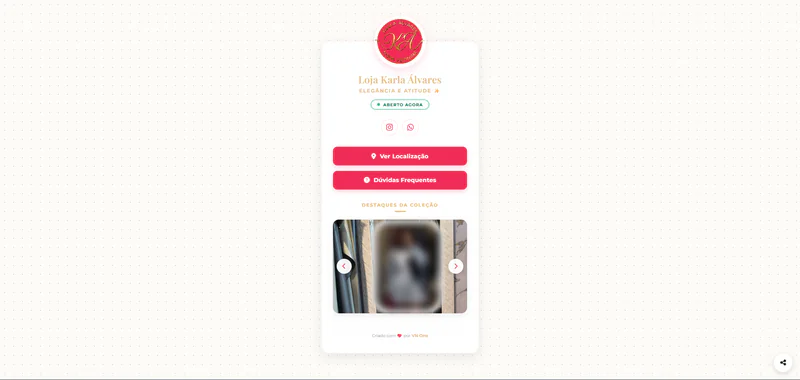
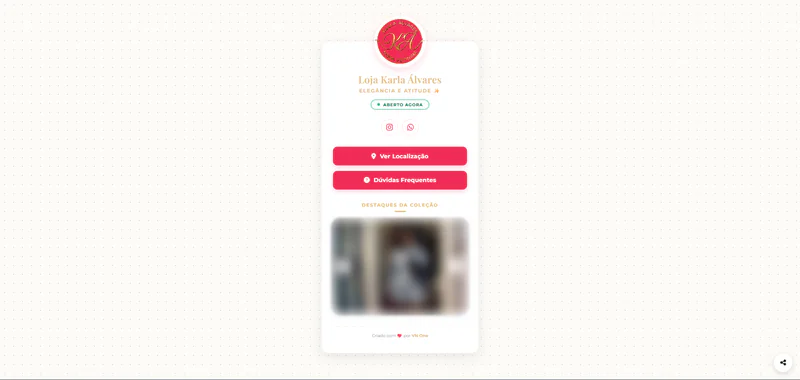
fix: case pages are never clipped (stacked below lg, min-w-0, smaller padding), wider text column at 280, Karla carousel fully and softly blurred

Changed region(s): [[0.4062, 0.55, 0.5938, 0.8395]]

diff --git a/src/components/ProjectDetail.tsx b/src/components/ProjectDetail.tsx
@@ -8,7 +8,10 @@ interface ProjectDetailProps {
   project: Project;
 }
 
-const LABEL_CLASSES = 'mb-3 text-xs font-bold uppercase tracking-widest text-zinc-400 max-md:pr-14';
+// The floating WhatsApp and accessibility buttons sit at the right edge of a phone: the text stays clear of them
+// (36 px under 360 px so the column stays wide enough, 56 px up to the tablet layout, none from md up).
+export const CLEAR_FLOATING_BUTTONS = 'pr-9 min-[360px]:pr-14 md:pr-0';
+const LABEL_CLASSES = `mb-3 text-xs font-bold uppercase tracking-widest text-zinc-400 ${CLEAR_FLOATING_BUTTONS}`;
 
 function Features({ items }: { items: readonly string[] }) {
   return (
@@ -16,7 +19,7 @@ function Features({ items }: { items: readonly string[] }) {
       <h2 id="projeto-faz" className={LABEL_CLASSES}>
         {FEATURES_LABEL}
       </h2>
-      <ul role="list" className="m-0 list-none space-y-3 p-0 max-md:pr-14">
+      <ul role="list" className={`m-0 list-none space-y-3 p-0 ${CLEAR_FLOATING_BUTTONS}`}>
         {items.map((item) => (
           <li key={item} className="flex gap-3 leading-relaxed text-zinc-300 md:text-base">
             <span aria-hidden="true" className="mt-2.5 size-1.5 shrink-0 rounded-full bg-white/40" />
@@ -34,7 +37,7 @@ function Tags({ tags }: { tags: readonly string[] }) {
       <h2 id="projeto-tecnologias" className={LABEL_CLASSES}>
         {TAGS_LABEL}
       </h2>
-      <ul role="list" className="m-0 flex list-none flex-wrap gap-2 p-0 max-md:pr-14">
+      <ul role="list" className={`m-0 flex list-none flex-wrap gap-2 p-0 ${CLEAR_FLOATING_BUTTONS}`}>
         {tags.map((tag) => (
           <li key={tag} className="rounded-full border border-white/10 bg-white/5 px-3 py-2 text-xs font-medium text-zinc-300 md:px-4">
             {tag}
@@ -46,10 +49,10 @@ function Tags({ tags }: { tags: readonly string[] }) {
 }
 
 function Heading({ project, large }: { project: Project; large: boolean }) {
-  const size = large ? 'text-4xl md:text-6xl' : 'text-2xl md:text-5xl';
+  const size = large ? 'text-4xl md:text-6xl' : 'text-2xl md:text-4xl lg:text-5xl';
 
   return (
-    <div className="max-md:pr-14">
+    <div className={`min-w-0 break-words ${CLEAR_FLOATING_BUTTONS}`}>
       <p className="mb-2 text-xs font-bold uppercase tracking-[0.25em] text-zinc-400">{project.category}</p>
       <h1 className={`${size} mb-4 font-display font-bold italic tracking-tight text-white md:mb-6`}>
         <ProjectTitle title={project.title} />
@@ -65,8 +68,8 @@ function Heading({ project, large }: { project: Project; large: boolean }) {
    Os projetos em destaque (DizPara, Hub081) ganham a galeria grande no topo e a lista do que fazem. */
 export default function ProjectDetail({ project }: ProjectDetailProps) {
   const isFeatured = Boolean(project.featured);
-  const layout = isFeatured ? 'flex-col' : 'flex-col md:flex-row';
-  const textLayout = isFeatured ? 'grid gap-10 lg:grid-cols-2 lg:gap-16' : 'flex flex-col md:sticky md:top-28 md:self-start';
+  const layout = isFeatured ? 'flex-col' : 'flex-col lg:flex-row';
+  const textLayout = isFeatured ? 'grid min-w-0 gap-10 lg:grid-cols-2 lg:gap-16' : 'flex min-w-0 flex-col lg:sticky lg:top-28 lg:self-start';
 
   return (
     <motion.div
@@ -77,7 +80,7 @@ export default function ProjectDetail({ project }: ProjectDetailProps) {
     >
       {isFeatured ? <HeroGallery project={project} /> : <StackedGallery project={project} />}
 
-      <div className="flex-1 bg-zinc-950 p-6 pb-10 md:bg-zinc-900 md:p-16">
+      <div className="min-w-0 flex-1 bg-zinc-950 p-4 pb-8 min-[360px]:p-6 min-[360px]:pb-10 md:bg-zinc-900 md:p-10 xl:p-16">
         <div className={textLayout}>
           <Heading project={project} large={isFeatured} />
           <div className={`space-y-6 md:space-y-8 ${isFeatured ? '' : 'mt-8'}`}>

diff --git a/src/components/ProjectDetail.layout.test.tsx b/src/components/ProjectDetail.layout.test.tsx
@@ -1,0 +1,51 @@
+import { screen } from '@testing-library/react';
+import { describe, expect, it } from 'vitest';
+import { getProjectBySlug, projects } from '../data/projects';
+import { renderWithProviders } from '../test/render';
+import ProjectDetail, { CLEAR_FLOATING_BUTTONS } from './ProjectDetail';
+
+function panelOf(container: HTMLElement): HTMLElement {
+  return container.querySelector('[class*="overflow-clip"]') as HTMLElement;
+}
+
+describe('the layout classes that keep a case page from being cut', () => {
+  it.each(projects.map((project) => project.slug))('lets the text column of %s shrink: min-w-0 on it and on its content', (slug) => {
+    const { container } = renderWithProviders(<ProjectDetail project={getProjectBySlug(slug)!} />);
+
+    const column = screen.getByRole('heading', { level: 1 }).closest('[class*="flex-1"]') as HTMLElement;
+
+    expect(column.className).toContain('min-w-0');
+    expect(column.firstElementChild?.className).toContain('min-w-0');
+    expect(panelOf(container)).toBeTruthy();
+  });
+
+  it('stacks the gallery above the text below lg, and puts them side by side only from lg', () => {
+    const { container } = renderWithProviders(<ProjectDetail project={getProjectBySlug('portal-link-in-bio')!} />);
+
+    const panel = panelOf(container);
+
+    expect(panel.className).toContain('flex-col');
+    expect(panel.className).toContain('lg:flex-row');
+    expect(panel.className).not.toContain('md:flex-row');
+    expect(screen.getByRole('group').className).toContain('lg:w-[60%]');
+    expect(screen.getByRole('group').className).not.toContain('md:w-[60%]');
+  });
+
+  it('keeps the padding of the text small below lg, so a narrow column keeps its width', () => {
+    renderWithProviders(<ProjectDetail project={getProjectBySlug('diagnostico-empresarial')!} />);
+
+    const column = screen.getByRole('heading', { level: 1 }).closest('[class*="flex-1"]') as HTMLElement;
+
+    expect(column.className).toContain('p-4');
+    expect(column.className).toContain('md:p-10');
+    expect(column.className).not.toContain('md:p-16');
+  });
+
+  it('keeps text clear of the floating buttons on a phone: 36 px under 360, 56 px up to the tablet layout, none from md', () => {
+    expect(CLEAR_FLOATING_BUTTONS).toBe('pr-9 min-[360px]:pr-14 md:pr-0');
+    renderWithProviders(<ProjectDetail project={getProjectBySlug('hub081')!} />);
+
+    expect(screen.getByRole('heading', { level: 1 }).parentElement?.className).toContain(CLEAR_FLOATING_BUTTONS);
+    for (const list of screen.getAllByRole('list')) expect(list.className).toContain(CLEAR_FLOATING_BUTTONS);
+  });
+});

diff --git a/src/pages/ProjectDetailPage.tsx b/src/pages/ProjectDetailPage.tsx
@@ -77,7 +77,7 @@ export default function ProjectDetailPage() {
             transition={{ duration: 0.6 }}
             className="mt-16 text-center"
           >
-            <p className="mb-6 text-lg text-vn-gray-dark max-md:px-14">{PROJECT_CTA_TEXT}</p>
+            <p className="mb-6 text-lg text-vn-gray-dark px-9 min-[360px]:px-14 md:px-0">{PROJECT_CTA_TEXT}</p>
             <Link
               to="/contato"
               className="group inline-flex items-center gap-3 rounded-full bg-black px-10 py-5 font-medium text-white shadow-2xl shadow-black/20 transition-colors hover:bg-zinc-800 motion-safe:active:scale-95"

diff --git a/src/components/ProjectDetailGallery.tsx b/src/components/ProjectDetailGallery.tsx
@@ -52,7 +52,7 @@ export function StackedGallery({ project }: { project: Project }) {
     <div
       role="group"
       aria-label={galleryLabel(project.title)}
-      className="relative flex w-full shrink-0 flex-col gap-4 border-b border-white/5 bg-zinc-950 p-4 md:w-[60%] md:gap-6 md:border-b-0 md:border-r md:p-6"
+      className="relative flex w-full shrink-0 flex-col gap-4 border-b border-white/5 bg-zinc-950 p-4 md:gap-6 md:p-6 lg:w-[60%] lg:border-b-0 lg:border-r"
     >
       <Backdrop project={project} blur="blur-2xl" />
       {project.shots.map((shot, index) => (
